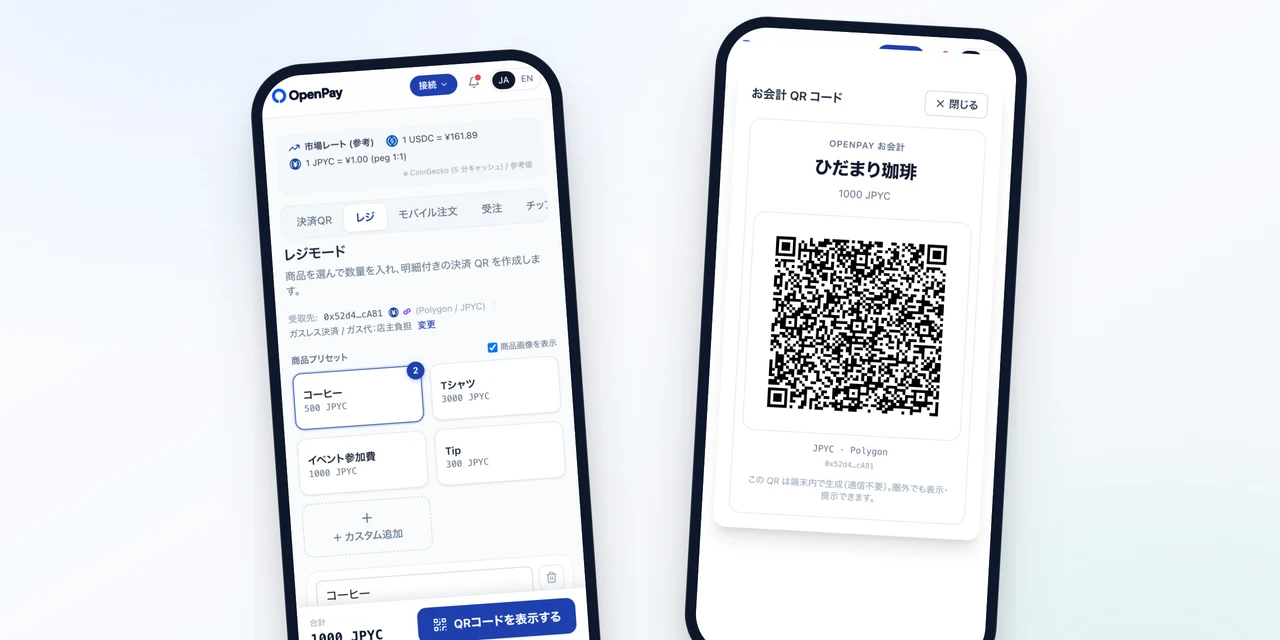
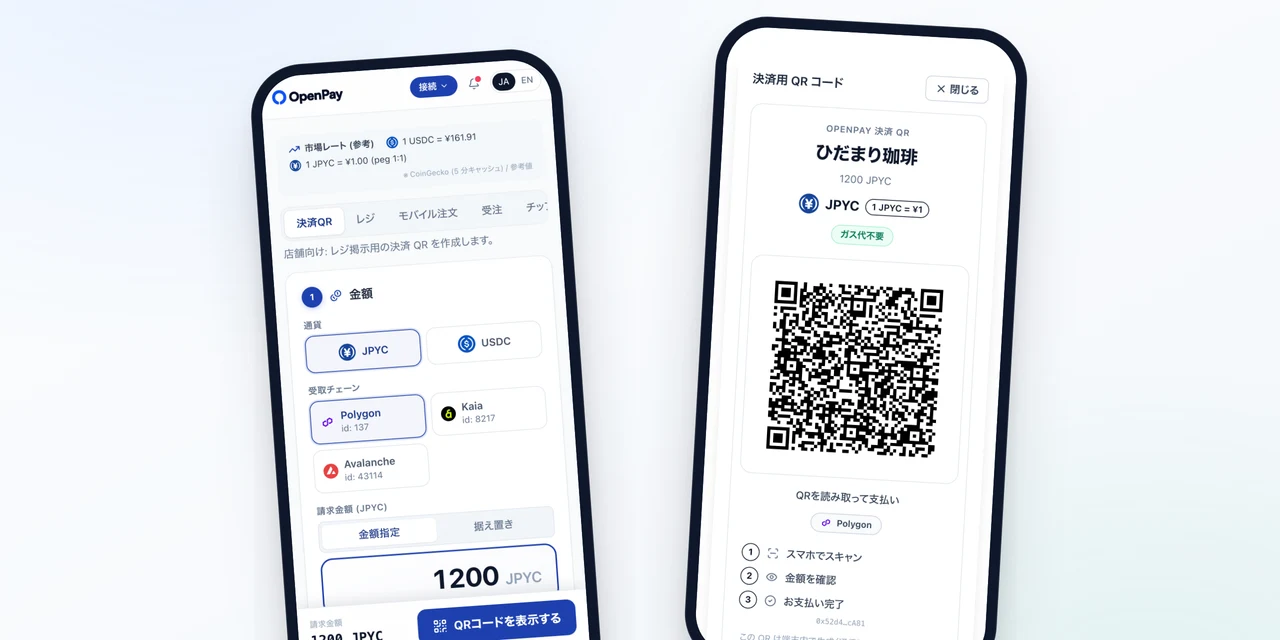
fix(guide/pos): ヒーローをガイドの実フロー準拠に撮り直し (レジ画面→決済QR画面) [user 指摘]
「2台持ち」= 既存 POS (スマレジ等) + OpenPay の決済QR。前 commit のレジモード構図は
OpenPay 自身のレジ運用でありガイドの前提と不一致 (user 指摘)。フロー STEP2
「OpenPay で同じ金額のQRを表示」どおり、決済QR タブ (請求金額 1200 JPYC 入力・
後続の支払い完了図 ¥1,200 と一致) + 決済用 QR モーダル (店名/金額/1 JPYC=¥1/ガス代不要/
3ステップ) の 2 台に差し替え。撮影時に testnet 表記 (Polygon Amoy/Kairos/Fuji と各 chain id)
を本番表記 (Polygon 137/Kaia 8217/Avalanche 43114) へテキスト置換。alt (ja/en) も同期。

Claude-Session: https://claude.ai/code/session_015CNMEwurCJNTrzvr2qypSd

diff --git a/lib/posGuide.ts b/lib/posGuide.ts
@@ -107,7 +107,7 @@ const ja: GuideContent = {
   lead: 'いまのPOSレジはそのまま、OpenPay を“横に置くだけ”。開発も連携も不要。設定は一度だけ、慣れれば会計は約10秒です。',
   audience:
     '対象：POSレジ（無料アプリ可）を使っている／これから使う店舗オーナーさん（小売・飲食・サロン・ポップアップなど）。',
-  heroImage: { file: 'hero.webp', alt: 'OpenPay のレジ画面と、店名・金額入りの会計 QR コード (スマホ 2 台の実画面)' },
+  heroImage: { file: 'hero.webp', alt: 'OpenPay の決済QR作成画面 (金額 1200 JPYC) と、店名・金額入りの決済用 QR コード (スマホ 2 台の実画面)' },
 
   canDoTitle: 'できること',
   canDo: [
@@ -260,7 +260,7 @@ const en: GuideContent = {
   lead: 'Keep your current POS and simply place OpenPay beside it. No development, no integration. Set up once — checkout takes about 10 seconds with practice.',
   audience:
     'For shop owners who use (or can start using) a POS register (a free app is fine) — retail, food, salons, pop-ups.',
-  heroImage: { file: 'hero.webp', alt: 'OpenPay register screen and a checkout QR code with shop name and amount (two real phone screens)' },
+  heroImage: { file: 'hero.webp', alt: 'OpenPay payment-QR screen (1200 JPYC) and the generated QR with shop name and amount (two real phone screens)' },
 
   canDoTitle: 'What you can do',
   canDo: [
